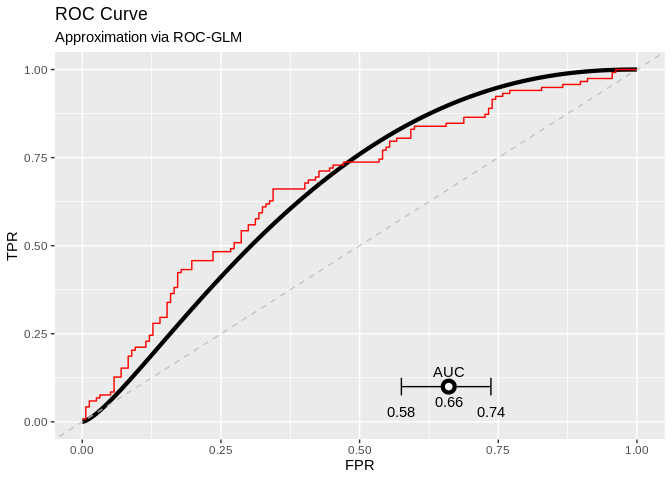
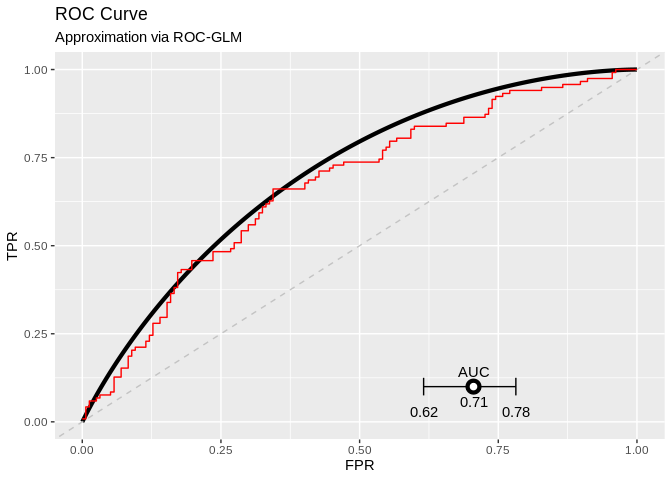
generated

diff --git a/README.md b/README.md
@@ -50,7 +50,7 @@ remotes::install_github("difuture-lmu/dsPredictBase")
 #> Installing 12 packages: gridExtra, dotCall64, data.table, pbapply, mathjaxr, maps, viridis, spam, panelaggregation, metafor, fields, DSI
 #> Installing packages into '/home/runner/work/_temp/Library'
 #> (as 'lib' is unspecified)
-#> * checking for file ‘/tmp/RtmpVk0D7b/remotes8efe96e199d/datashield-dsBaseClient-d22ba51/DESCRIPTION’ ... OK
+#> * checking for file ‘/tmp/RtmpNeWfhK/remotes8f2d5358a028/datashield-dsBaseClient-d22ba51/DESCRIPTION’ ... OK
 #> * preparing ‘dsBaseClient’:
 #> * checking DESCRIPTION meta-information ... OK
 #> * checking for LF line-endings in source and make files and shell scripts
@@ -63,7 +63,7 @@ remotes::install_github("difuture-lmu/dsPredictBase")
 #> (as 'lib' is unspecified)
 #> Skipping install of 'dsBaseClient' from a github remote, the SHA1 (d22ba514) has not changed since last install.
 #>   Use `force = TRUE` to force installation
-#> * checking for file ‘/tmp/RtmpVk0D7b/remotes8efe761eadf8/difuture-lmu-dsPredictBase-aab7c2d/DESCRIPTION’ ... OK
+#> * checking for file ‘/tmp/RtmpNeWfhK/remotes8f2d716294ae/difuture-lmu-dsPredictBase-aab7c2d/DESCRIPTION’ ... OK
 #> * preparing ‘dsPredictBase’:
 #> * checking DESCRIPTION meta-information ... OK
 #> * checking for LF line-endings in source and make files and shell scripts
@@ -80,7 +80,7 @@ remotes::install_github("difuture-lmu/dsCalibration")
 #> Using github PAT from envvar GITHUB_PAT
 #> Downloading GitHub repo difuture-lmu/dsCalibration@HEAD
 #> 
-#> * checking for file ‘/tmp/RtmpVk0D7b/remotes8efe1a68b4a/difuture-lmu-dsCalibration-1805632/DESCRIPTION’ ... OK
+#> * checking for file ‘/tmp/RtmpNeWfhK/remotes8f2d4a43b7c8/difuture-lmu-dsCalibration-1805632/DESCRIPTION’ ... OK
 #> * preparing ‘dsCalibration’:
 #> * checking DESCRIPTION meta-information ... OK
 #> * checking for LF line-endings in source and make files and shell scripts
@@ -92,7 +92,7 @@ remotes::install_github("difuture-lmu/dsROCGLM")
 #> Using github PAT from envvar GITHUB_PAT
 #> Downloading GitHub repo difuture-lmu/dsROCGLM@HEAD
 #> 
-#> * checking for file ‘/tmp/RtmpVk0D7b/remotes8efe48b45dba/difuture-lmu-dsROCGLM-2d76f54/DESCRIPTION’ ... OK
+#> * checking for file ‘/tmp/RtmpNeWfhK/remotes8f2d55cefb90/difuture-lmu-dsROCGLM-2d76f54/DESCRIPTION’ ... OK
 #> * preparing ‘dsROCGLM’:
 #> * checking DESCRIPTION meta-information ... OK
 #> * checking for LF line-endings in source and make files and shell scripts
@@ -268,7 +268,7 @@ load(here::here("data/mod.Rda"))
 
 ## Push the model to the servers:
 pushObject(conn, obj = mod)
-#> [2022-02-16 08:51:59] Your object is bigger than 1 MB (7.2 MB). Uploading larger objects may take some time.
+#> [2022-02-21 13:48:35] Your object is bigger than 1 MB (7.2 MB). Uploading larger objects may take some time.
 datashield.symbols(conn)
 #> $ds1
 #> [1] "D"   "mod"
@@ -433,35 +433,34 @@ sqrt(2 * log(1.25 / delta)) * l2s / epsilon
 roc_glm = dsROCGLM(conn, "D$cens", "probs", epsilon = epsilon,
   delta = delta, dat_name = "D", seed_object = "D$cens")
 #> 
-#> [2022-02-16 08:56:29] L2 sensitivity is: 0.016
+#> [2022-02-21 13:52:52] L2 sensitivity is: 0.016
 #> 
-#> [2022-02-16 08:56:32] Initializing ROC-GLM
+#> [2022-02-21 13:52:54] Initializing ROC-GLM
 #> 
-#> [2022-02-16 08:56:32] Host: Received scores of negative response
-#> [2022-02-16 08:56:32] Receiving negative scores
-#> [2022-02-16 08:56:35] Host: Pushing pooled scores
-#> [2022-02-16 08:56:39] Server: Calculating placement values and parts for ROC-GLM
-#> [2022-02-16 08:56:42] Server: Calculating probit regression to obtain ROC-GLM
-#> [2022-02-16 08:56:45] Deviance of iter1=52.6631
-#> [2022-02-16 08:56:49] Deviance of iter2=74.2983
-#> [2022-02-16 08:56:52] Deviance of iter3=88.1869
-#> [2022-02-16 08:56:55] Deviance of iter4=89.6172
-#> [2022-02-16 08:56:58] Deviance of iter5=89.6298
-#> [2022-02-16 08:57:02] Deviance of iter6=89.6298
-#> [2022-02-16 08:57:05] Deviance of iter7=89.6298
-#> [2022-02-16 08:57:05] Host: Finished calculating ROC-GLM
-#> [2022-02-16 08:57:05] Host: Cleaning data on server
-#> [2022-02-16 08:57:08] Host: Calculating AUC and CI
-#> [2022-02-16 08:57:24] Finished!
+#> [2022-02-21 13:52:54] Host: Received scores of negative response
+#> [2022-02-21 13:52:54] Receiving negative scores
+#> [2022-02-21 13:52:56] Host: Pushing pooled scores
+#> [2022-02-21 13:52:58] Server: Calculating placement values and parts for ROC-GLM
+#> [2022-02-21 13:53:00] Server: Calculating probit regression to obtain ROC-GLM
+#> [2022-02-21 13:53:02] Deviance of iter1=52.6631
+#> [2022-02-21 13:53:04] Deviance of iter2=79.6304
+#> [2022-02-21 13:53:06] Deviance of iter3=92.0434
+#> [2022-02-21 13:53:08] Deviance of iter4=93.2307
+#> [2022-02-21 13:53:10] Deviance of iter5=93.2413
+#> [2022-02-21 13:53:12] Deviance of iter6=93.2413
+#> [2022-02-21 13:53:12] Host: Finished calculating ROC-GLM
+#> [2022-02-21 13:53:12] Host: Cleaning data on server
+#> [2022-02-21 13:53:15] Host: Calculating AUC and CI
+#> [2022-02-21 13:53:25] Finished!
 roc_glm
 #> 
 #> ROC-GLM after Pepe:
 #> 
-#>  Binormal form: pnorm(0.71 + 1.38*qnorm(t))
+#>  Binormal form: pnorm(0.83 + 1.16*qnorm(t))
 #> 
-#>  AUC and 0.95 CI: [0.58----0.66----0.74]
+#>  AUC and 0.95 CI: [0.62----0.71----0.78]
 roc_glm$ci
-#> [1] 0.5753081 0.7367395
+#> [1] 0.6153931 0.7816766
 
 gg_distr_roc = plot(roc_glm)
 gg_distr_roc
@@ -494,7 +493,7 @@ auc = pROC::auc(dat_test$cens, probs)
 #> Setting direction: controls < cases
 c(auc_emp = auc, auc_distr_roc_glm = roc_glm$auc)
 #>           auc_emp auc_distr_roc_glm 
-#>         0.6724603         0.6606778
+#>         0.6724603         0.7053179
 
 source(here::here("R/helper.R"))
 logitToAUC(pepeCI(toLogit(auc), 0.05, deLongVar(probs, dat_test$cens)))
